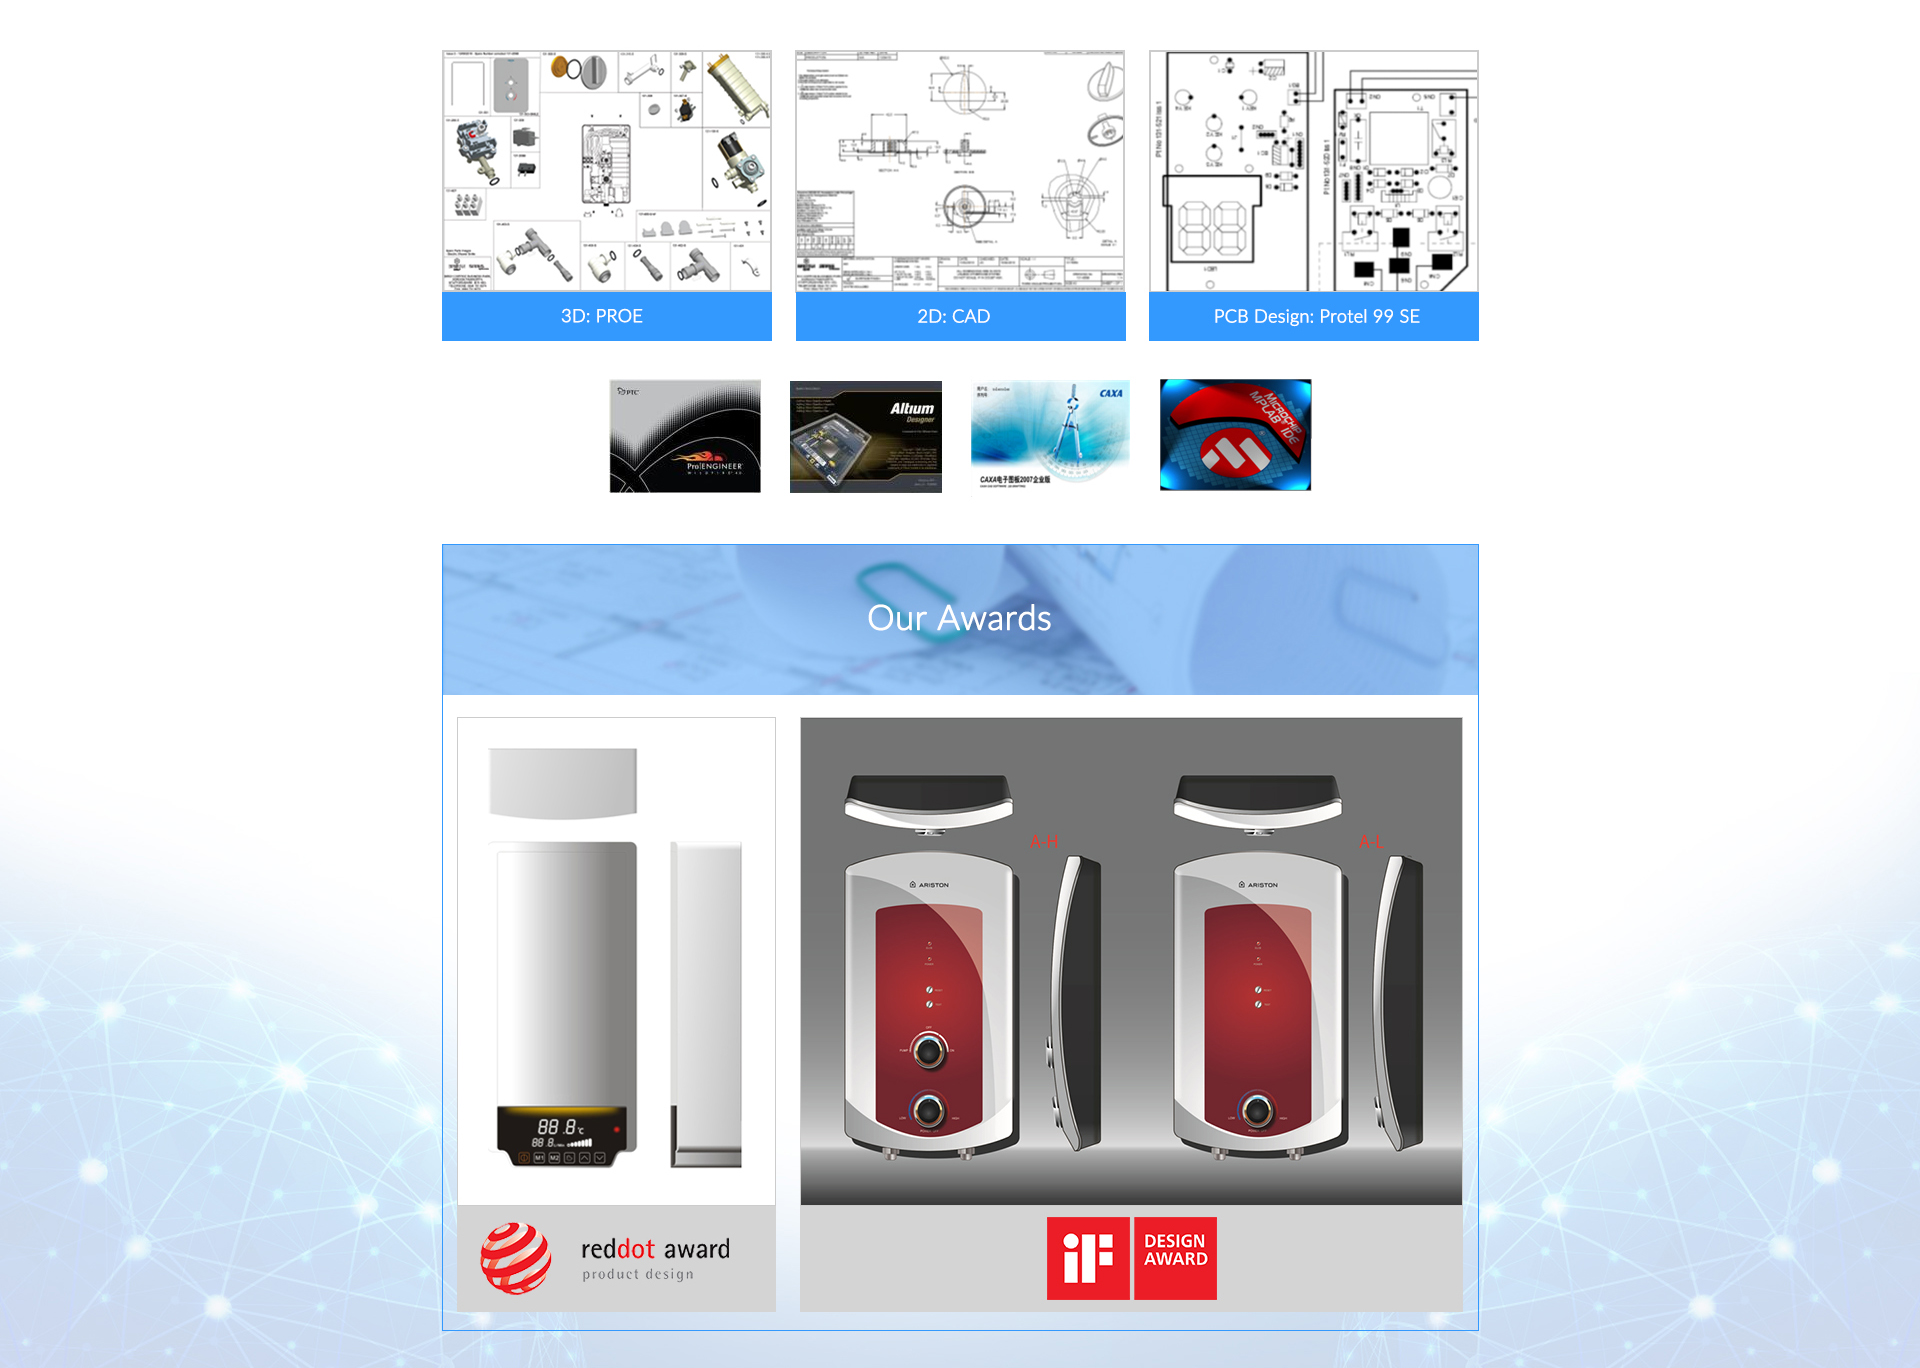
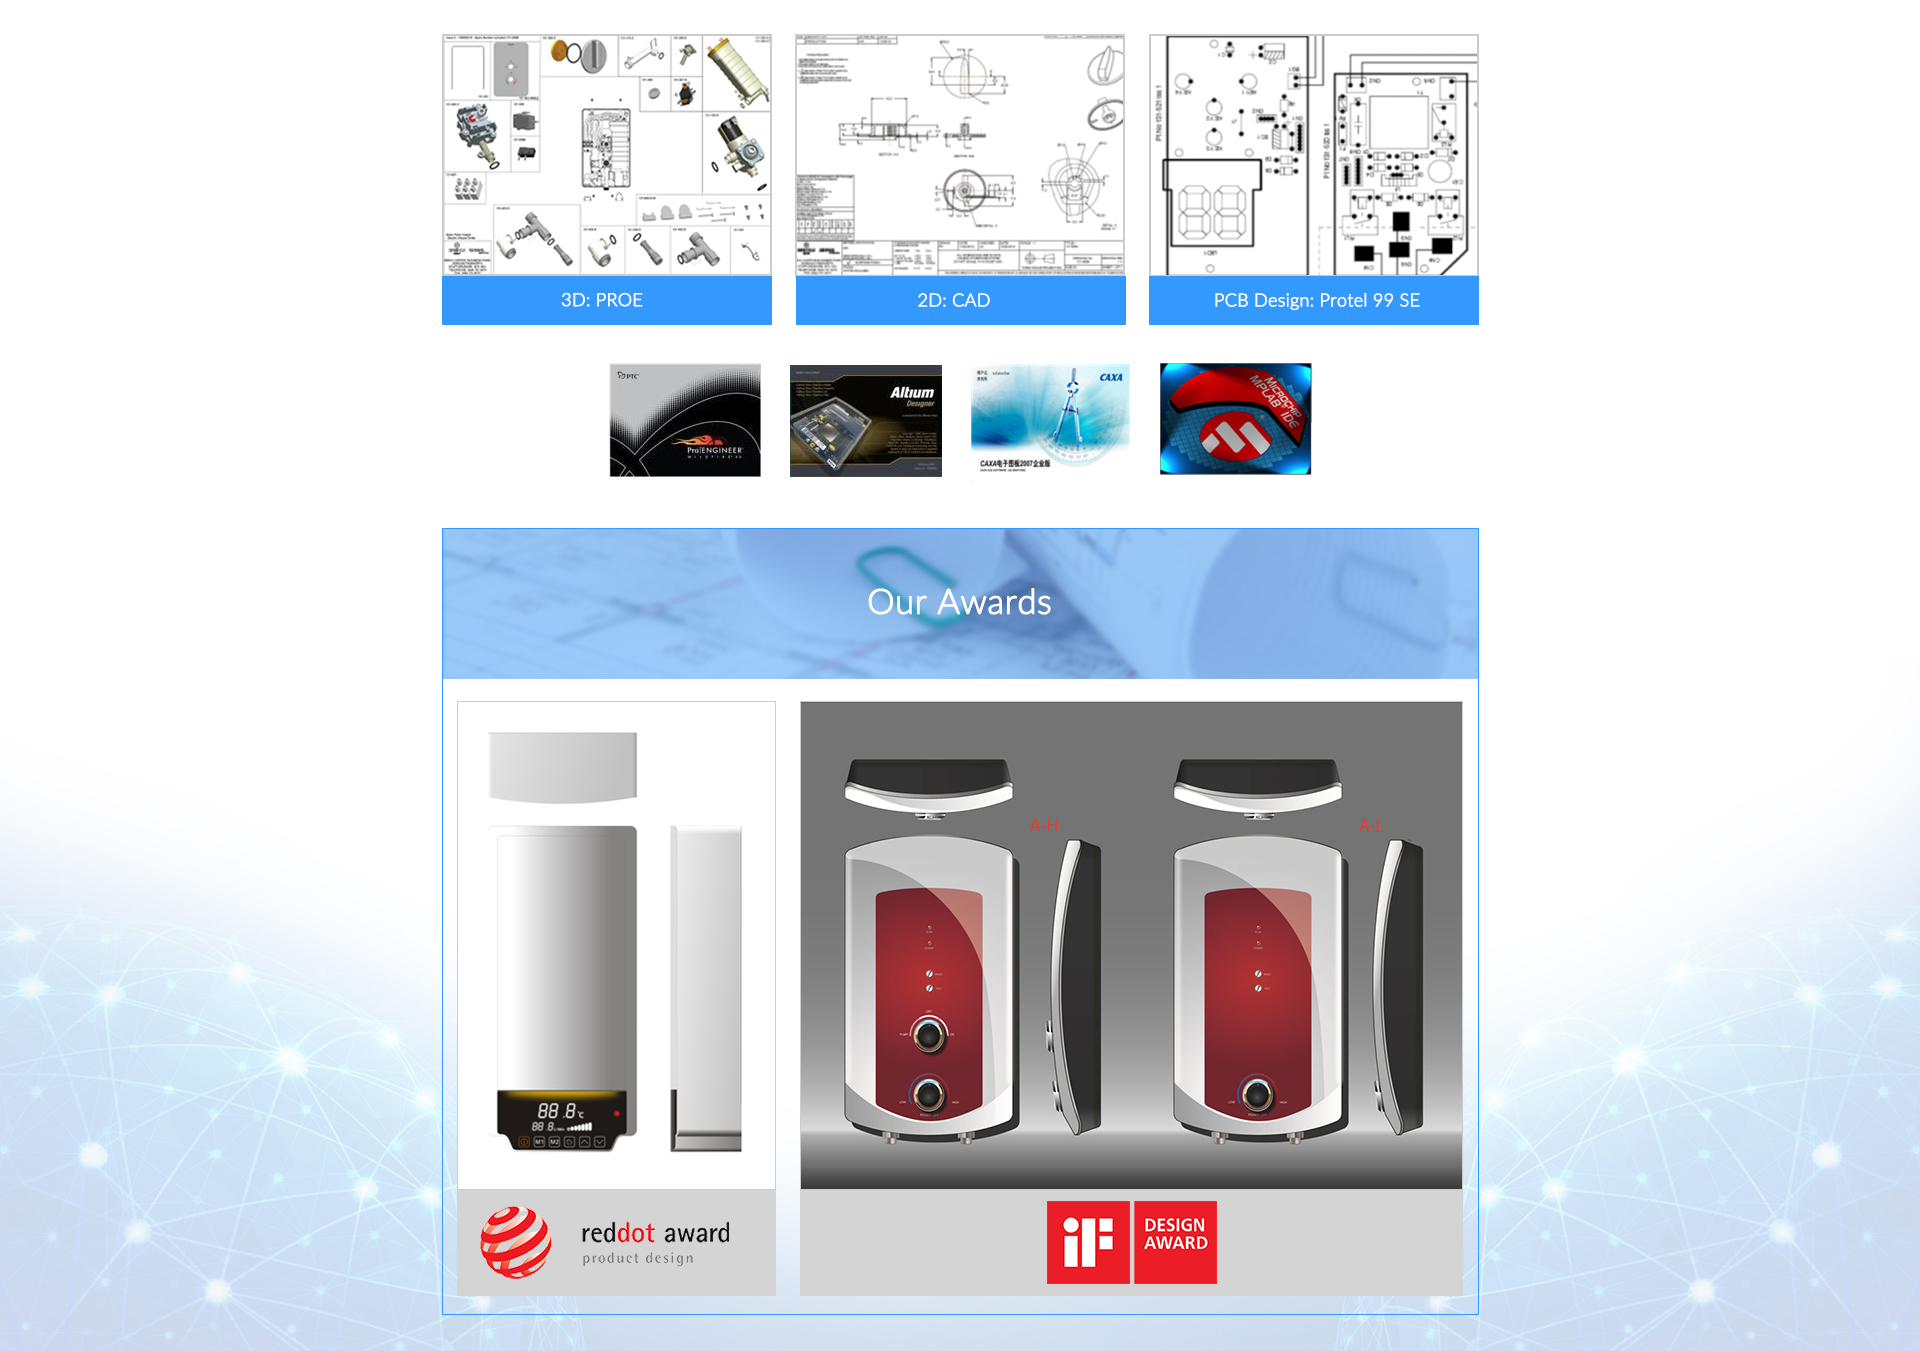
Update font

diff --git a/kadima/css/default.css b/kadima/css/default.css
@@ -572,7 +572,7 @@ body {
 .row {
     margin-left: 0px;
     margin-right: 0px;
-	font-family: 'Lato-Light_1';
+	font-family: 'Lato Light';
 }
 
 a:hover, a:focus {
@@ -845,7 +845,6 @@ h1, h2, h3, h4, h5, h6 {
 **************************************************************************************************************************/
 
 .kadima_header_breadcrum_title {
-    margin-bottom: 30px;
     background: #edf0f2;
     opacity: 1;
     padding-top: 8px;

diff --git a/kadima/style.css b/kadima/style.css
@@ -17,7 +17,7 @@ Text Domain: kadima
 /* Header Section css */
 body {
     /* padding:0 30px;*/
-    font-family: 'Open Sans', 'Arimo', Arial, Helvetica, sans-serif;
+    font-family: 'Lato Light', 'Open Sans', 'Arimo', Arial, Helvetica, sans-serif;
     background-color: #fff;
 }
 #wrapper {
